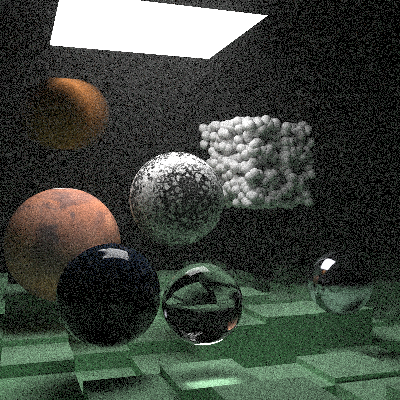
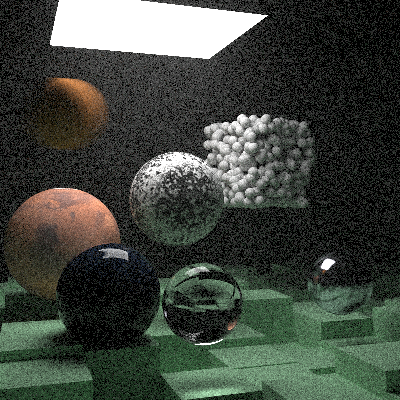
revert to original book random implementation

diff --git a/rtweekend.h b/rtweekend.h
@@ -5,7 +5,6 @@
 #include <cstdlib>
 #include <limits>
 #include <memory>
-#include <random>
 
 // Usings
 using std::make_shared;
@@ -24,9 +23,8 @@ inline double DegreesTooRadians(double degrees)
 
 inline double RandomDouble()
 {
-    static thread_local std::mt19937 generator;
-    static std::uniform_real_distribution<double> distribution(0.0, 1.0);
-    return distribution(generator);
+    // Returns a random real in [0,1)
+    return rand() / (RAND_MAX + 1.0);
 }
 
 inline double RandomDouble(double min, double max)

diff --git a/main.cpp b/main.cpp
@@ -423,7 +423,7 @@ void FinalRenderBookTwo(int image_width, int samples_per_pixel, int max_depth)
 
     auto marsMaterial = make_shared<Lambertian>(make_shared<ImageTexture>("mars.jpg"));
     world.Add(make_shared<Sphere>(Point3(400, 200, 400), 100, marsMaterial));
-    auto perlinTexture = make_shared<NoiseTexture>(0.1);
+    auto perlinTexture = make_shared<NoiseTexture>(10);
     world.Add(make_shared<Sphere>(Point3(220, 280, 300), 80, make_shared<Lambertian>(perlinTexture)));
 
     HitableList boxes2;
